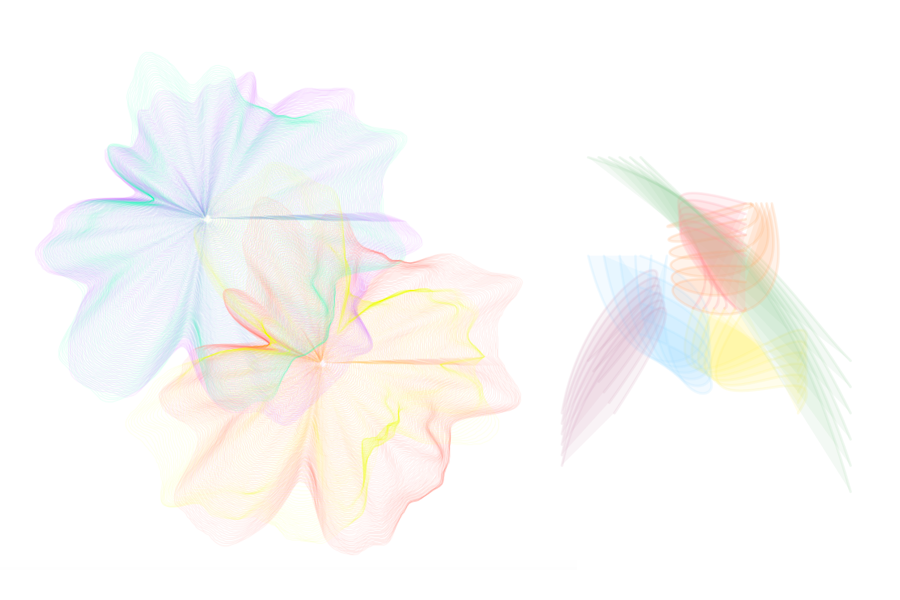
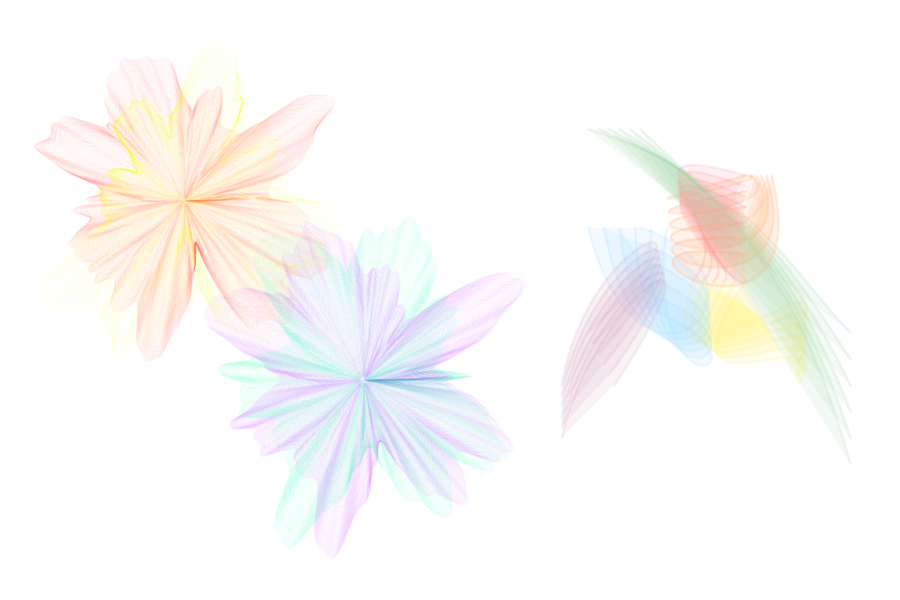
s

diff --git a/scienceart.html b/scienceart.html
@@ -46,7 +46,8 @@
     <div class="row">
       <div class="col-md-8 work-detail-margin detail-image">
         <div class="work-image">
-          <p> <img src="images/portfolio/2flower.gif"> </p>
+          <p> <img src="images/portfolio/flower.gif"> </p>
+          <p> <img src="images/portfolio/3f.png"></p>
         </div>
       </div>
       <div class="col-md-4 work-detail-margin detail-contentbox">
